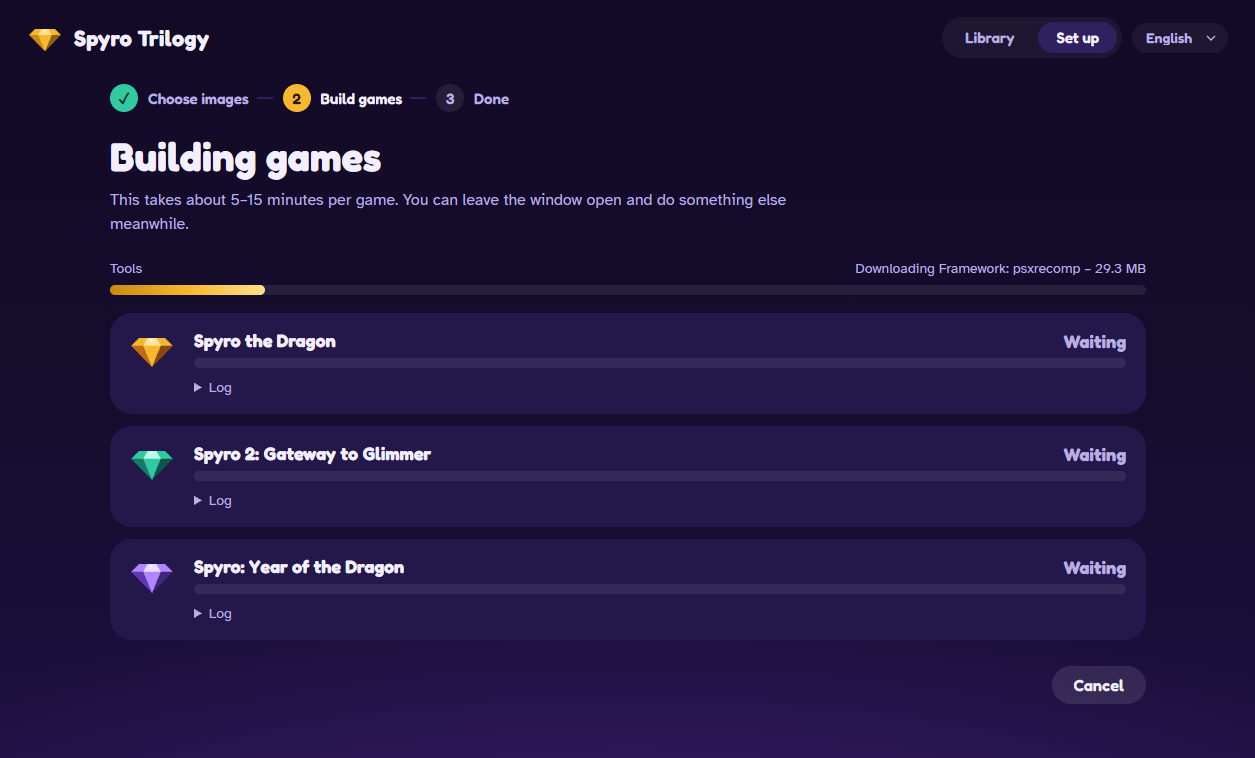
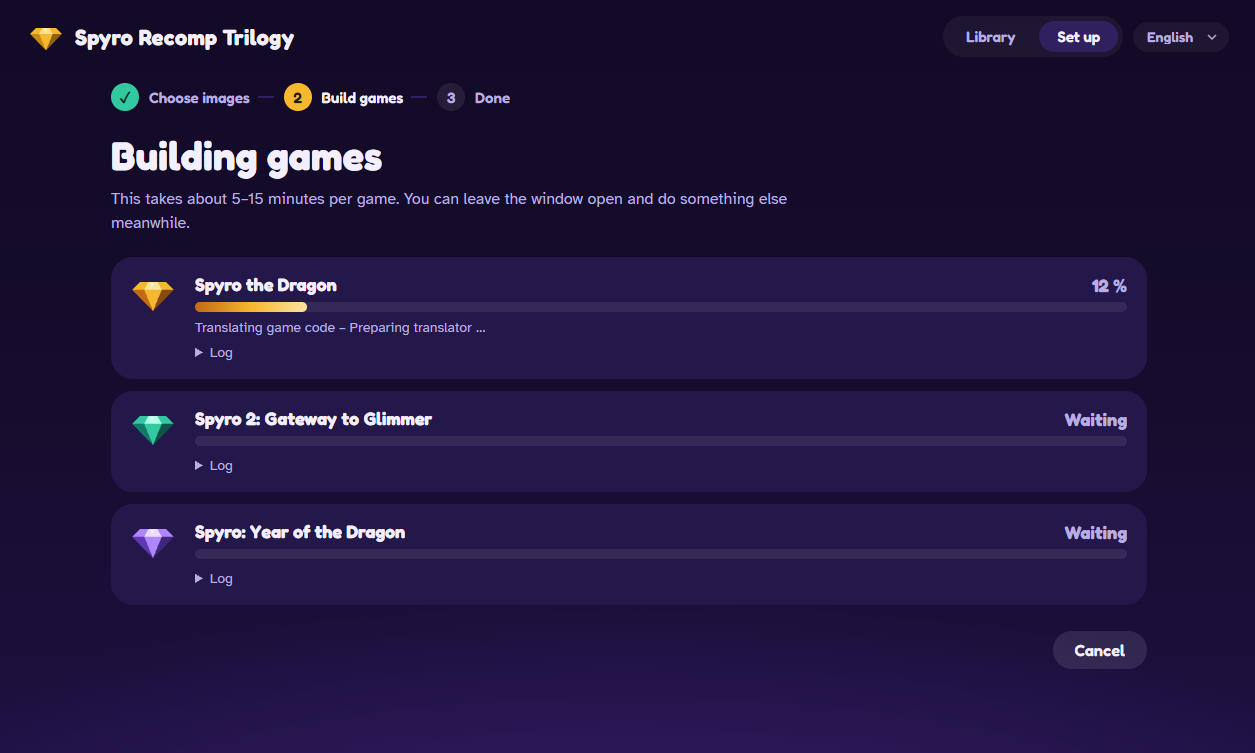
README: screenshots with the new name, add in-game menu
Claude-Session: https://claude.ai/code/session_01Guwb8u2y2u6kgmDat5Kz6q

diff --git a/README.md b/README.md
@@ -32,6 +32,8 @@ no prebuilt games** – everything is created on your PC from your images.
 |---|---|
 | ![Choosing disc images](docs/screenshots/setup.png) | ![Building the games](docs/screenshots/building.png) |
 
+![In-game menu](docs/screenshots/ingame-menu.png)
+
 ## Supported discs
 
 | Game | Serial | Note |
